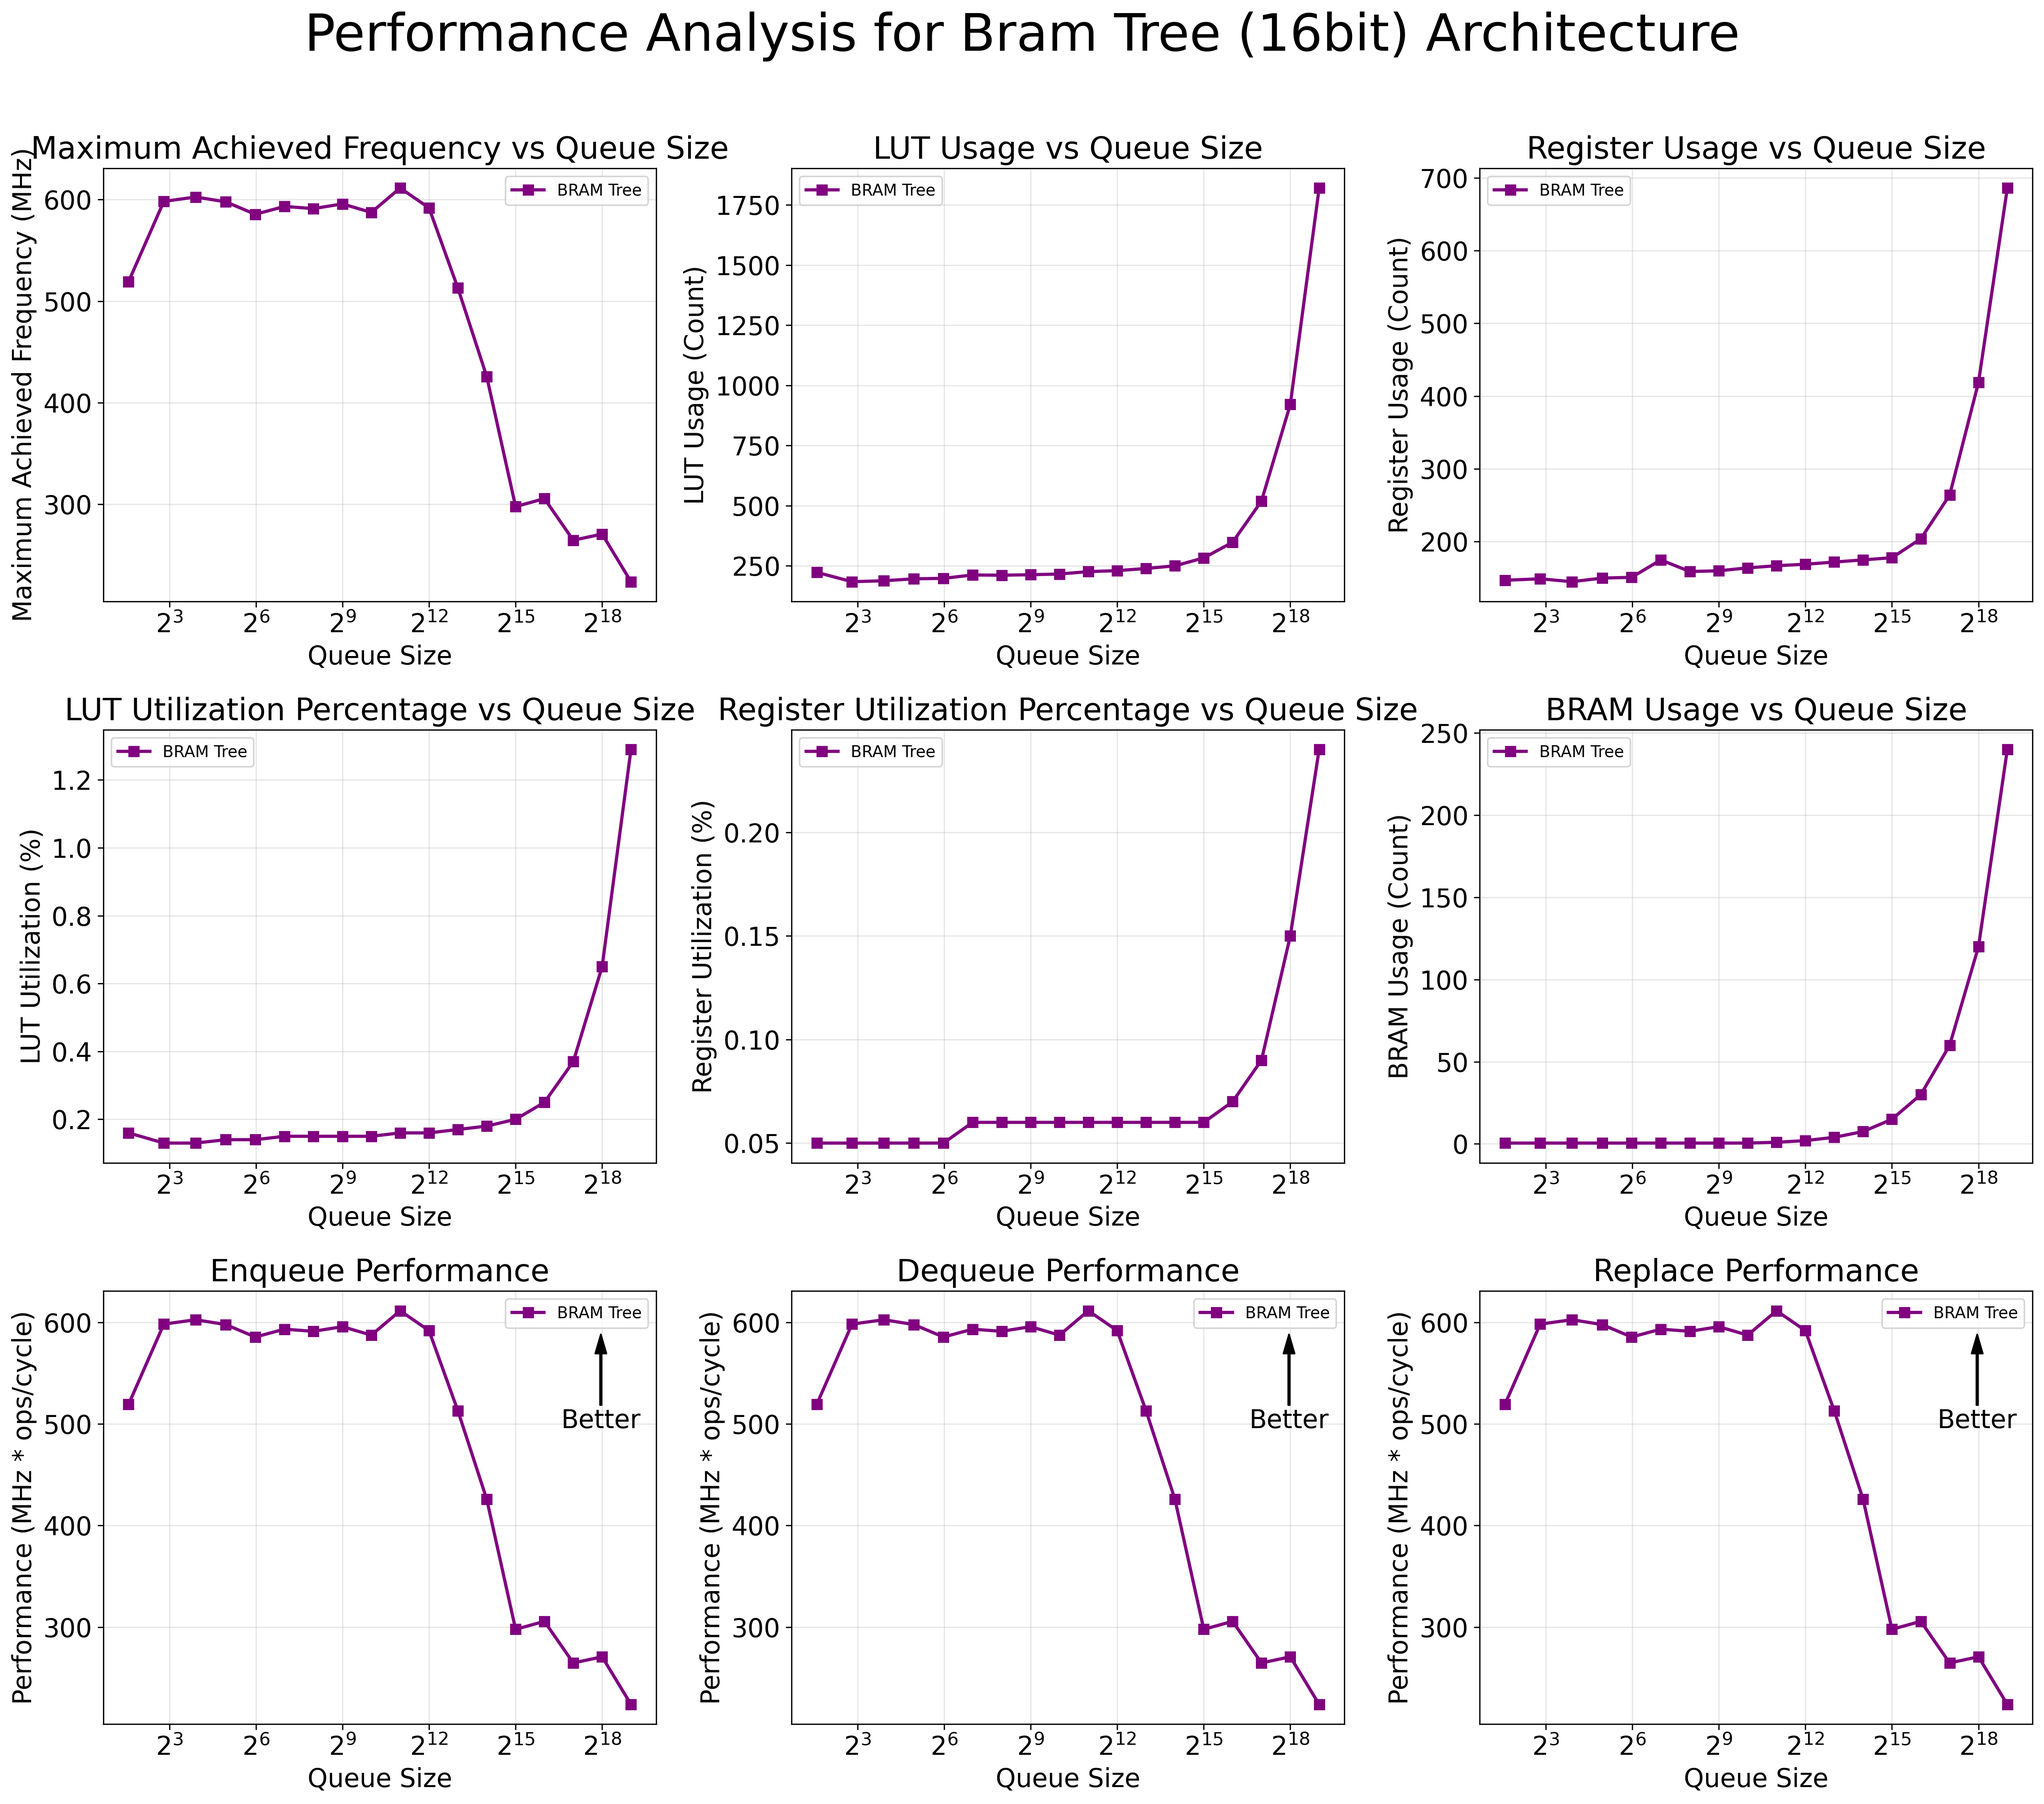
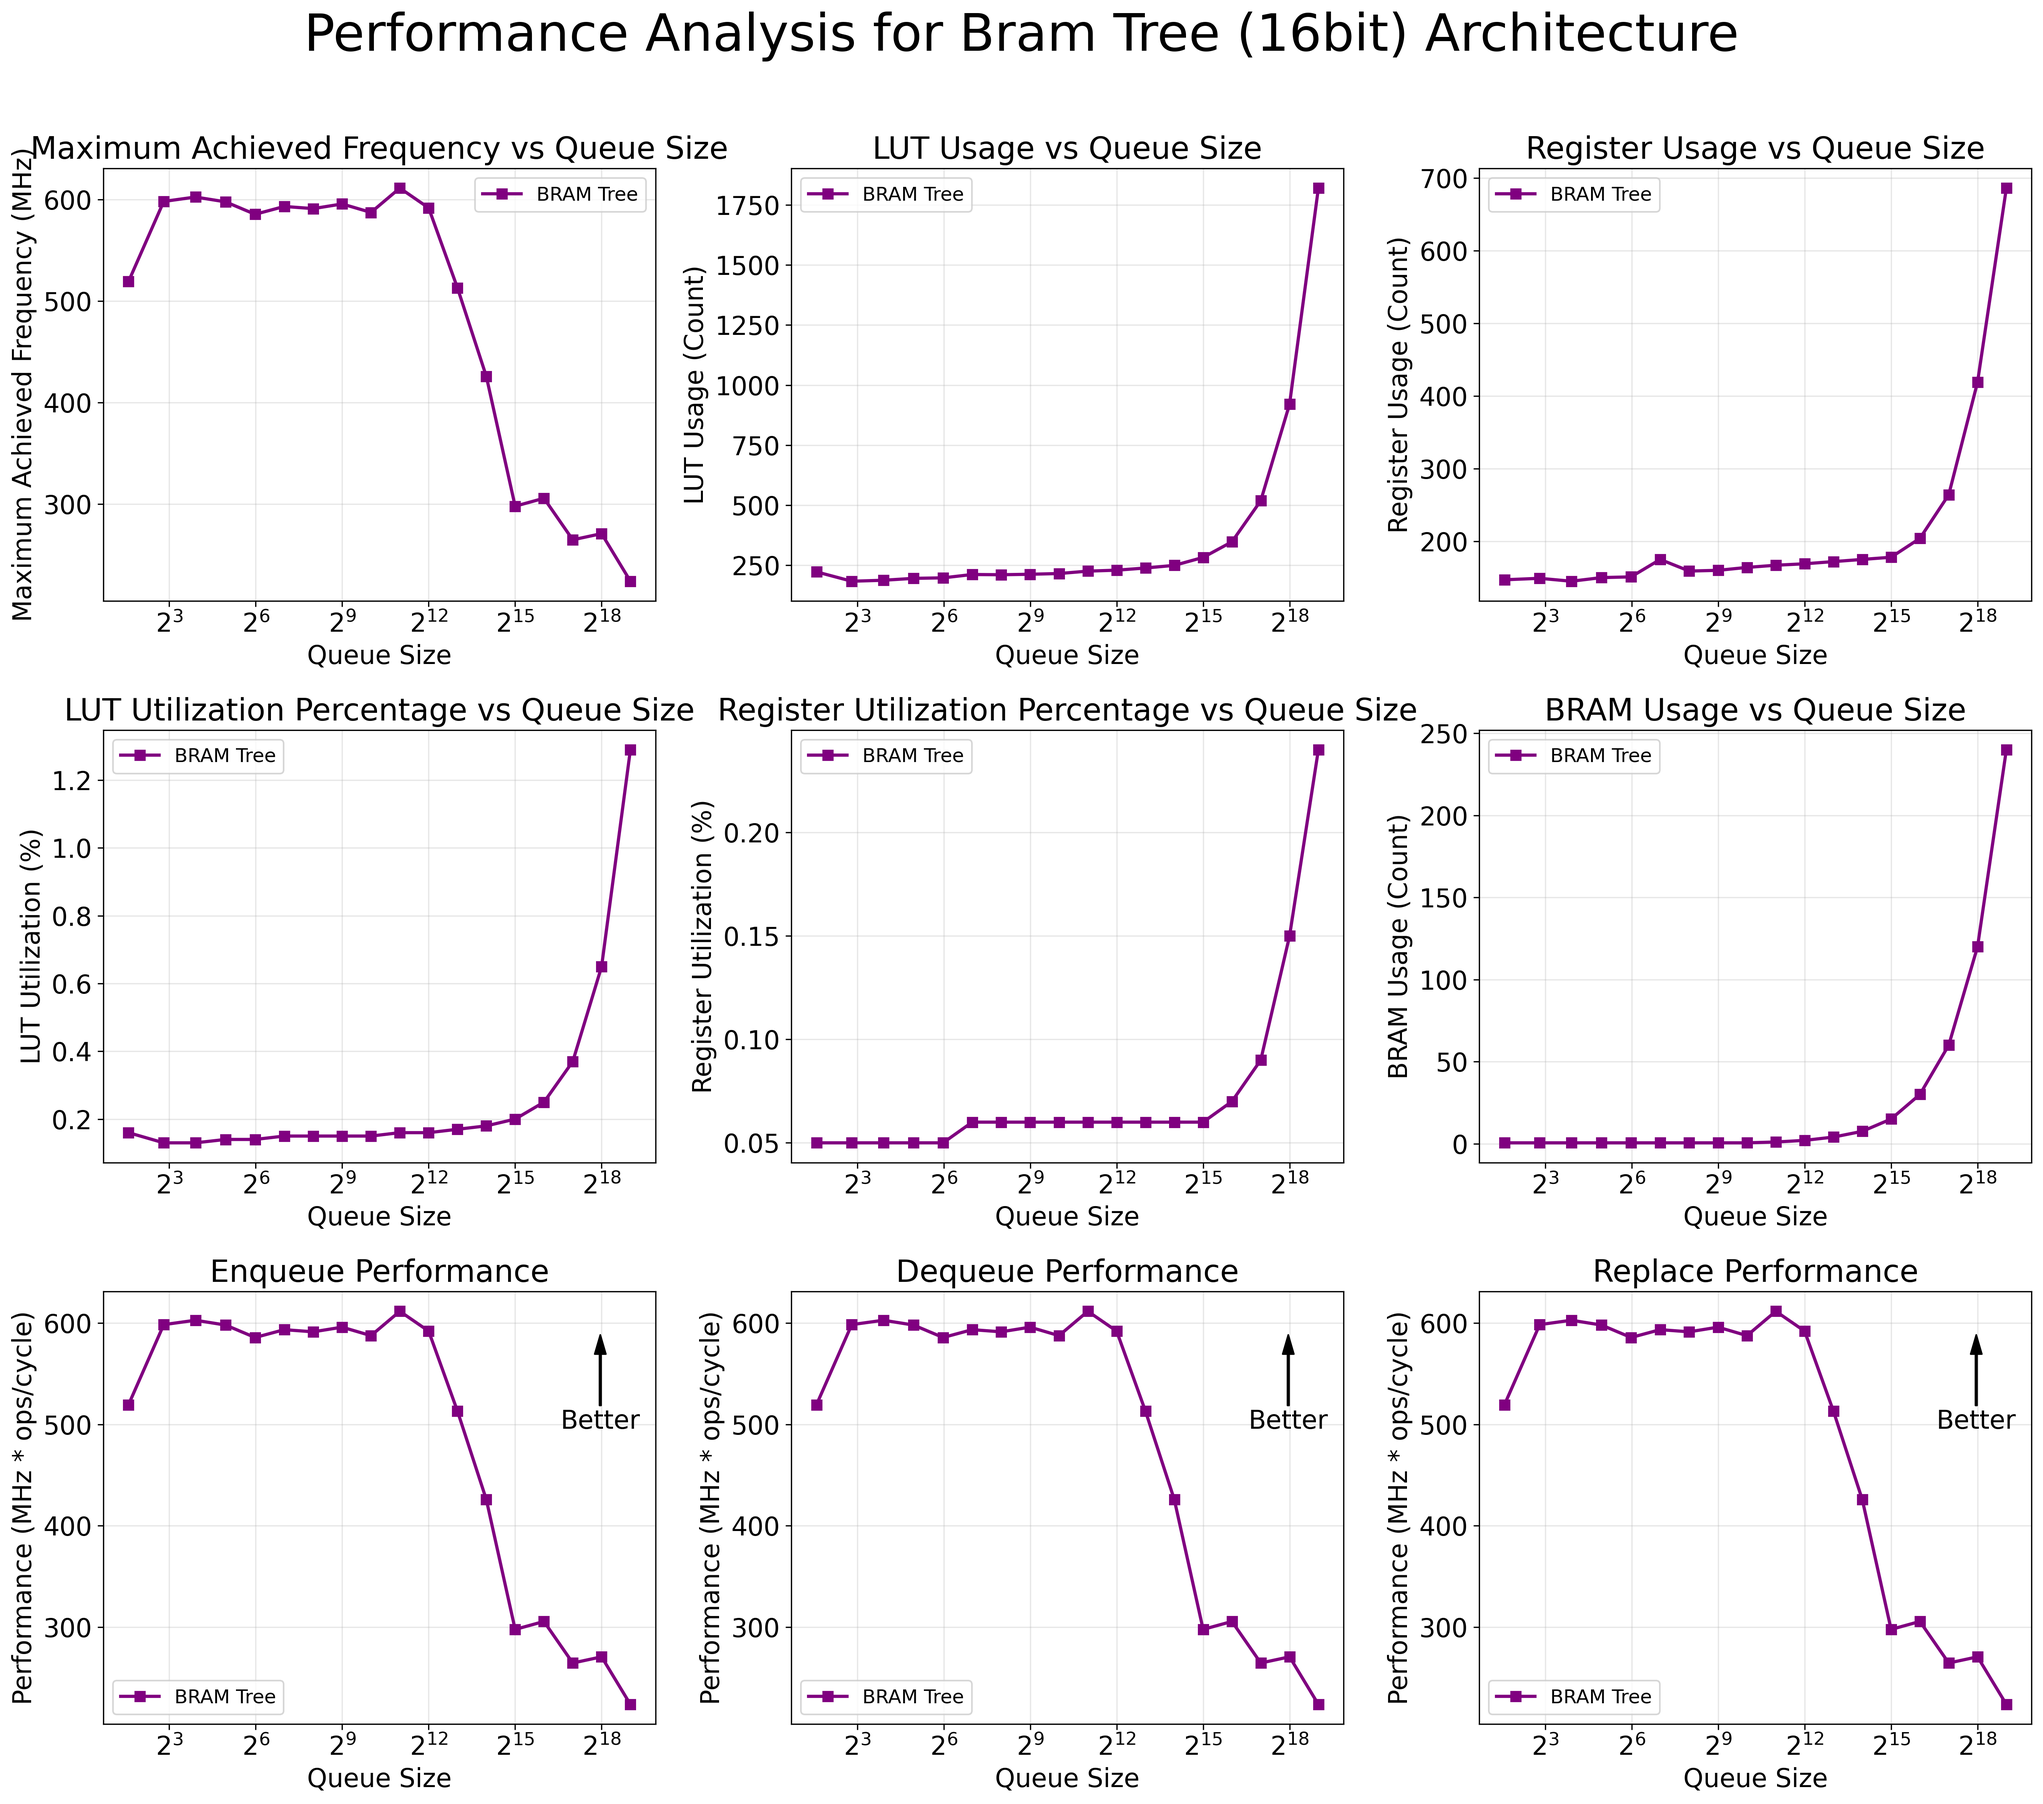
update analysis

diff --git a/analysis_scripts/plotter.py b/analysis_scripts/plotter.py
@@ -89,7 +89,7 @@ def plot_frequency_vs_queue_size(ax, data_dict, title=None, arch_name=None):
     
     # Add legend if plotting multiple architectures
     if arch_name:
-        ax.legend(fontsize=10)
+        ax.legend(fontsize=12)
 
 
 def plot_lut_usage_vs_queue_size(ax, data_dict, title=None, arch_name=None):
@@ -118,7 +118,7 @@ def plot_lut_usage_vs_queue_size(ax, data_dict, title=None, arch_name=None):
     
     # Add legend if plotting multiple architectures
     if arch_name:
-        ax.legend(fontsize=10)
+        ax.legend(fontsize=12)
 
 
 def plot_lut_utilization_vs_queue_size(ax, data_dict, title=None, arch_name=None):
@@ -147,7 +147,7 @@ def plot_lut_utilization_vs_queue_size(ax, data_dict, title=None, arch_name=None
     
     # Add legend if plotting multiple architectures
     if arch_name:
-        ax.legend(fontsize=10)
+        ax.legend(fontsize=12)
 
 
 def plot_register_usage_vs_queue_size(ax, data_dict, title=None, arch_name=None):
@@ -176,7 +176,7 @@ def plot_register_usage_vs_queue_size(ax, data_dict, title=None, arch_name=None)
     
     # Add legend if plotting multiple architectures
     if arch_name:
-        ax.legend(fontsize=10)
+        ax.legend(fontsize=12)
 
 
 def plot_register_utilization_vs_queue_size(ax, data_dict, title=None, arch_name=None):
@@ -205,7 +205,7 @@ def plot_register_utilization_vs_queue_size(ax, data_dict, title=None, arch_name
     
     # Add legend if plotting multiple architectures
     if arch_name:
-        ax.legend(fontsize=10)
+        ax.legend(fontsize=12)
 
 
 def plot_bram_usage_vs_queue_size(ax, data_dict, title=None, arch_name=None):
@@ -234,7 +234,7 @@ def plot_bram_usage_vs_queue_size(ax, data_dict, title=None, arch_name=None):
     
     # Add legend if plotting multiple architectures
     if arch_name:
-        ax.legend(fontsize=10)
+        ax.legend(fontsize=12)
 
 
 def plot_bram_utilization_vs_queue_size(ax, data_dict, title=None, arch_name=None):
@@ -263,7 +263,7 @@ def plot_bram_utilization_vs_queue_size(ax, data_dict, title=None, arch_name=Non
     
     # Add legend if plotting multiple architectures
     if arch_name:
-        ax.legend(fontsize=10)
+        ax.legend(fontsize=12)
 
 
 def plot_performance_comparison(ax, data_dict, arch_list, operation, title=None):
@@ -291,7 +291,7 @@ def plot_performance_comparison(ax, data_dict, arch_list, operation, title=None)
     ax.set_title(title or f"{operation.capitalize()} Performance")
     ax.set_xscale('log', base=2)
     ax.grid(True)
-    ax.legend(fontsize=10)
+    ax.legend(fontsize=12)
     
     # Add "Better" annotation with arrow pointing up (higher is better)
     ax.annotate('Better', xy=(0.9, 0.9), xycoords='axes fraction',
@@ -329,7 +329,7 @@ def plot_efficiency_comparison(ax, data_dict, arch_list, operation, title=None):
     ax.set_xscale('log', base=2)
     ax.set_yscale('log')
     ax.grid(True)
-    ax.legend(fontsize=10)
+    ax.legend(fontsize=12)
     
     # Add "Better" annotation with arrow pointing down (lower is better)
     ax.annotate('Better', xy=(0.9, 0.1), xycoords='axes fraction',
@@ -417,7 +417,7 @@ def create_comparison_plots(data_dict_dict, output_path=None):
     axs[0, 0].set_title('Maximum Achieved Frequency')
     axs[0, 0].set_xscale('log', base=2)
     axs[0, 0].grid(True)
-    axs[0, 0].legend(fontsize=10)
+    axs[0, 0].legend(fontsize=12)
     
     # Plot 2: LUT utilization comparison
     for arch_name, data_dict in data_dict_dict.items():
@@ -430,7 +430,7 @@ def create_comparison_plots(data_dict_dict, output_path=None):
     axs[0, 1].set_title('LUT Utilization Comparison')
     axs[0, 1].set_xscale('log', base=2)
     axs[0, 1].grid(True)
-    axs[0, 1].legend(fontsize=10)
+    axs[0, 1].legend(fontsize=12)
     
     # Plot 3: Register utilization comparison
     for arch_name, data_dict in data_dict_dict.items():
@@ -443,7 +443,7 @@ def create_comparison_plots(data_dict_dict, output_path=None):
     axs[0, 2].set_title('Register Utilization Comparison')
     axs[0, 2].set_xscale('log', base=2)
     axs[0, 2].grid(True)
-    axs[0, 2].legend(fontsize=10)
+    axs[0, 2].legend(fontsize=12)
     
     # Plot 4: BRAM utilization comparison
     for arch_name, data_dict in data_dict_dict.items():
@@ -458,7 +458,7 @@ def create_comparison_plots(data_dict_dict, output_path=None):
     axs[0, 3].set_xscale('log', base=2)
     axs[0, 3].set_yscale('log')
     axs[0, 3].grid(True)
-    axs[0, 3].legend(fontsize=10)
+    axs[0, 3].legend(fontsize=12)
     
     # Row 2 and 3: Performance and efficiency comparisons
     operations = ["enqueue", "dequeue", "replace"]
@@ -605,6 +605,6 @@ def process_and_plot_all(base_dir, output_dir=None):
 
 if __name__ == "__main__":
     # * Input base_dir as an absolute path
-    base_dir = "/Users/charlie/Workspace/pq_research/hwpq_qw2246"
+    base_dir = "./"
     output_dir = os.path.join(base_dir, OUTPUT_DIR)
     process_and_plot_all(base_dir, output_dir)
